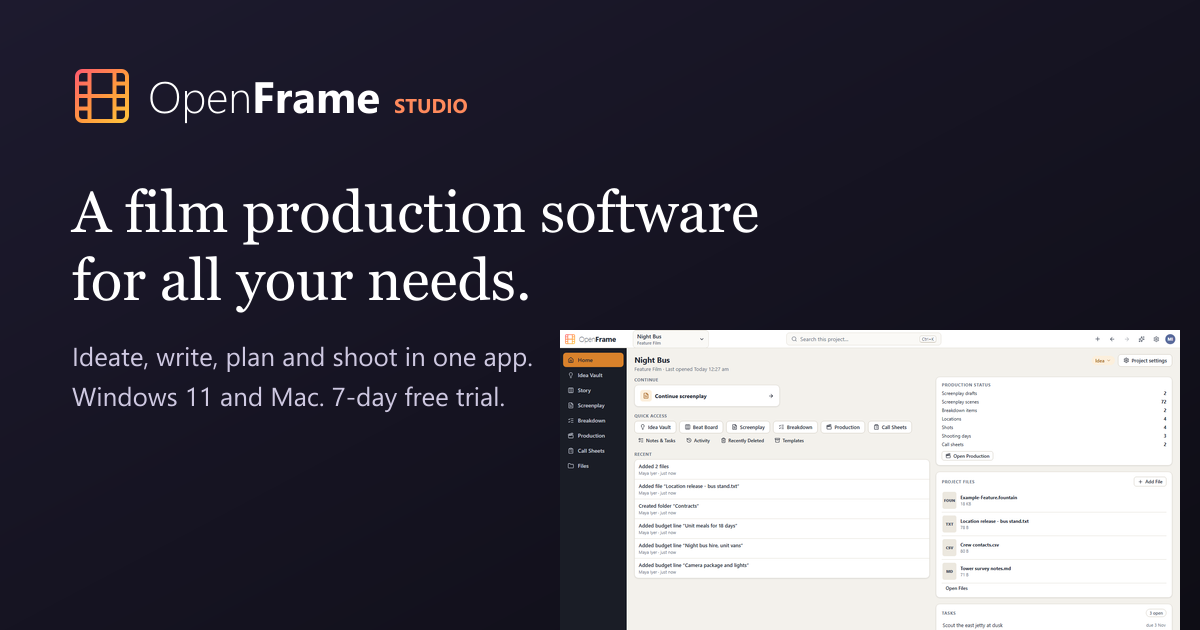
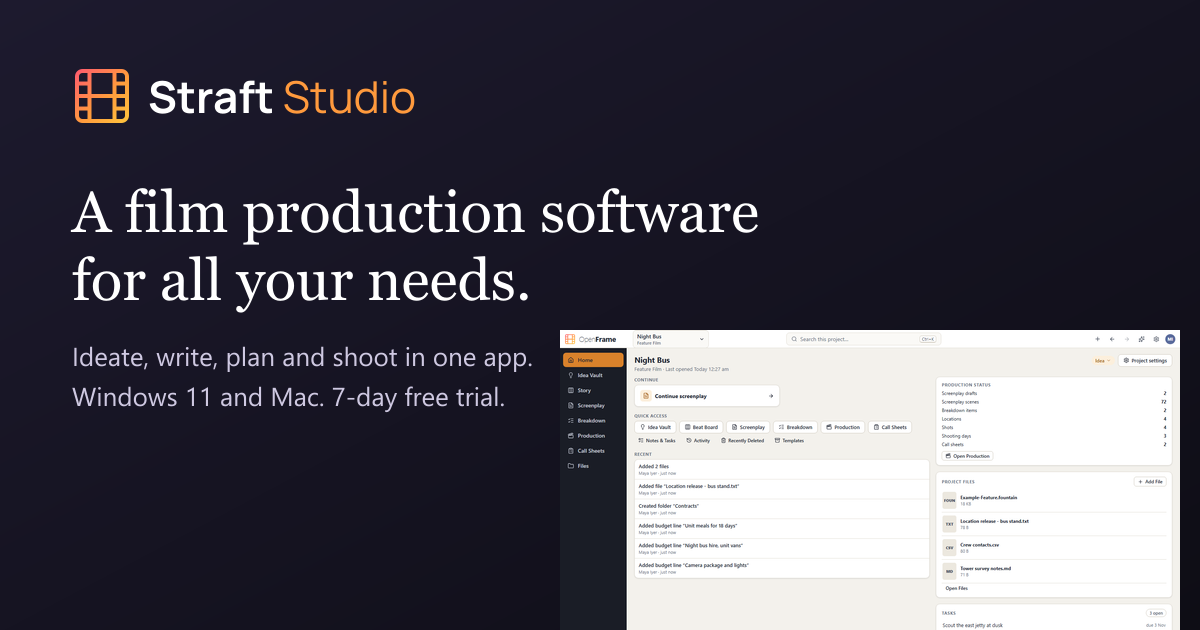
Website rename: keep contact details and live external ids; wordmark work in progress
Claude-Session: https://claude.ai/code/session_01DFi6xJmbhcTZEJgvK9GfvV

Changed region(s): [[0.1233, 0.1206, 0.4008, 0.181]]

diff --git a/website/src/assets/css/site.css b/website/src/assets/css/site.css
@@ -55,11 +55,10 @@ section.tint{background:var(--cream)}
 .brand{display:flex;align-items:center;gap:11px;text-decoration:none;flex:none}
 .brand .mk{width:34px;height:34px;overflow:visible}
 .mk .s{fill:none;stroke:url(#ofg);stroke-width:1.6;stroke-linecap:round;stroke-linejoin:round}
-.brand .wm{display:flex;flex-direction:column;line-height:1}
-.brand .wm b{font-size:25px;letter-spacing:-.02em;font-weight:700}
-.brand .wm b i{font-style:normal;font-weight:300}
-.brand .wm small{display:flex;justify-content:space-between;width:80%;font-size:8.5px;font-weight:700;color:var(--accent-ink);margin:5px auto 0;line-height:1}
-.brand .wm small i{font-style:normal}
+/* the logo's wordmark: Manrope, "Straft" bold in the ink colour, "Studio" regular in the brand orange, one line */
+.brand .wm{display:block;white-space:nowrap;line-height:1;font-family:Manrope,Inter,system-ui,sans-serif;font-size:23px;letter-spacing:-.01em}
+.brand .wm b{font-weight:700}
+.brand .wm i{font-style:normal;font-weight:400;color:var(--accent-ink)}
 .brand.draw .s{stroke-dasharray:1.03;stroke-dashoffset:1.03;animation:draw 1.1s var(--ease) var(--d,0s) forwards}
 @keyframes draw{to{stroke-dashoffset:0}}
 .menu{display:flex;gap:4px;list-style:none;margin:0 0 0 12px;padding:0;flex:1}
@@ -126,8 +125,8 @@ li.open>.mega{visibility:visible;opacity:1;transform:none}
 .one{position:absolute;inset:0;display:grid;place-items:center;opacity:0;transform:scale(.92);transition:opacity .35s ease,transform .35s ease;pointer-events:none}
 .merged .one{opacity:1;transform:none;pointer-events:auto;transition:opacity .7s var(--ease) .4s,transform .8s var(--ease) .4s}
 .one-card{background:var(--solid);color:var(--on-solid);border-radius:20px;padding:26px 34px;text-align:center;box-shadow:var(--shadow);width:min(560px,100%)}
-.one-card .wm{font-size:34px;letter-spacing:-.02em}
-.one-card .wm i{font-style:normal;font-weight:300}.one-card .wm b{font-weight:700}
+.one-card .wm{font-family:Manrope,Inter,system-ui,sans-serif;font-size:34px;letter-spacing:-.01em}
+.one-card .wm b{font-weight:700}
 .one-card p{color:#cfc9e2;margin:6px 0 16px;font-size:16px}
 .one-card .pills{display:flex;gap:7px;flex-wrap:wrap;justify-content:center}
 .one-card .pills span{font-size:12.5px;font-weight:600;border:1px solid #ffffff33;border-radius:999px;padding:5px 11px;color:#fff}
@@ -239,6 +238,7 @@ footer.site-f ul{list-style:none;padding:0;margin:0;display:grid;gap:9px}
 footer.site-f a{text-decoration:none}
 footer.site-f a:hover{color:#fff;text-decoration:underline}
 footer.site-f .brand .wm b{color:#fff}
+footer.site-f .brand .wm i{color:#ff9a3d}
 footer.site-f p.about{margin:16px 0 18px;max-width:300px;line-height:1.5}
 .f-bot{border-top:1px solid #ffffff1f;margin-top:46px;padding-top:22px;display:flex;justify-content:space-between;gap:14px;flex-wrap:wrap;font-size:13.5px;color:#a39dbb}
 .f-bot b{color:#fff}
@@ -274,7 +274,7 @@ footer.site-f .f-pub a{color:#cfc9e2;overflow-wrap:anywhere;text-decoration:unde
   .grid3,.promise-row{grid-template-columns:1fr}
   .nav{gap:10px}
   .nav-cta .btn{padding:10px 12px;font-size:13.5px}
-  .brand .wm b{font-size:20px}
+  .brand .wm{font-size:19px}
   .brand .mk{width:30px;height:30px}
   .brand{gap:8px}
   .slide .tag{display:none}

diff --git a/website/src/assets/css/theme.css b/website/src/assets/css/theme.css
@@ -3,6 +3,7 @@
 @font-face{font-family:Inter;font-style:normal;font-weight:100 900;font-display:swap;src:url(/assets/fonts/inter-latin-wght-normal.woff2) format("woff2")}
 @font-face{font-family:Newsreader;font-style:normal;font-weight:200 800;font-display:swap;src:url(/assets/fonts/newsreader-latin-wght-normal.woff2) format("woff2")}
 @font-face{font-family:Sora;font-style:normal;font-weight:100 800;font-display:swap;src:url(/assets/fonts/sora-latin-wght-normal.woff2) format("woff2")}
+@font-face{font-family:Manrope;font-style:normal;font-weight:200 800;font-display:swap;src:url(/assets/fonts/manrope-latin-wght-normal.woff2) format("woff2")}
 
 :root[data-theme=dark]{
   color-scheme:dark;
@@ -284,7 +285,7 @@ svg.defs{position:absolute;width:0;height:0;overflow:hidden}
 /* type, three families (owner direction 2026-10-31), all self-hosted:
    Newsreader (editorial serif) for h1 page titles and the large editorial lines,
    Sora (geometric sans) for h2 and h3 and the big figures,
-   Inter for body text, buttons, navigation and labels. The wordmark keeps the brand's own lettering (Inter). */
+   Inter for body text, buttons, navigation and labels. The wordmark keeps the brand's own lettering (Manrope, from the logo). */
 :root{--font:Inter,"Segoe UI Variable Text","Segoe UI",system-ui,-apple-system,Arial,sans-serif;
   --font-title:Newsreader,"Iowan Old Style",Georgia,"Times New Roman",serif;
   --font-head:Sora,Inter,"Segoe UI",system-ui,sans-serif}
@@ -305,7 +306,8 @@ h3{font-weight:560;letter-spacing:-.018em}
 .tut h3,.faq-item summary,.btn,.menu,.founder .role{font-family:var(--font)}
 .tut h3{font-weight:600}
 .tut h3,.founder h3{letter-spacing:-.012em}
-.brand .wm,.brand .wm b{font-family:Inter}.brand .wm b{font-weight:680}
+.brand .wm,.brand .wm b,.brand .wm i{font-family:Manrope,Inter,system-ui,sans-serif}.brand .wm b{font-weight:700}.brand .wm i{font-weight:400}
+:root[data-theme=dark] .brand .wm i{color:#ff9a3d}
 /* Ideate, Write, Plan, Shoot: labels, no full stops; room between the active underline and the screen */
 .stages{margin:26px 0 30px}
 .stages button::after{bottom:-6px}
